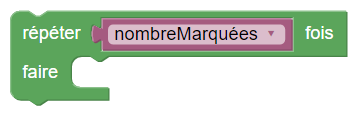
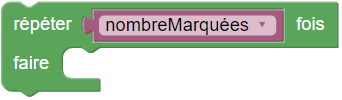
Scratch version

diff --git a/algorea_training/training-var-shapes/index.html b/algorea_training/training-var-shapes/index.html
@@ -55,11 +55,13 @@
                   <p>
                   Pour lire le nombre et stocker sa valeur dans la variable "nombreMarquées", avancez sur sa case, puis exécuter l'instruction suivante :
                   </p>
-                  <img data-lang="blockly" src="read_number_blockly.png" style="height:50px"/>
+                  <img data-lang="blockly" src="read_number_blockly.png" style="height:35px"/>
+                  <img data-lang="scratch" src="read_number_scratch.png" style="height:50px"/>
                   <p>
-                  Vous pouvez ensuite utiliser cette variable là où vous avez besoin de sa valeur, par exemple :<br/>
-                  <img data-lang="blockly" src="use_number_blockly.png" style="height:90px" />
+                  Vous pouvez ensuite utiliser cette variable là où vous avez besoin de sa valeur, par exemple :
                   </p>
+                  <img data-lang="blockly" src="use_number_blockly.png" style="height:80px" />
+                  <img data-lang="scratch" src="use_number_scratch.png" style="height:100px" />
                </div>
                <div class="medium">
                   <p>
@@ -77,6 +79,7 @@
                   Pour peindre le bon nombre de cases sur chaque ligne, vous allez devoir créer une variable qui pour chaque ligne, devra contenir le nombre de colonnes à marquer. Après avoir dessiné chaque ligne, le contenu de cette variable devra être augmenté de 1. Cela ressemblera un peu à ceci :
                   </p>
                   <img data-lang="blockly" src="use_variable_blockly.png" style="height:200px" />
+                  <img data-lang="scratch" src="use_variable_scratch.png" style="height:250px" />
                </div>
                <p>
                   Notez que cet exercice contient deux tests. Le programme du robot doit fonctionner sur chacun des deux tests.
